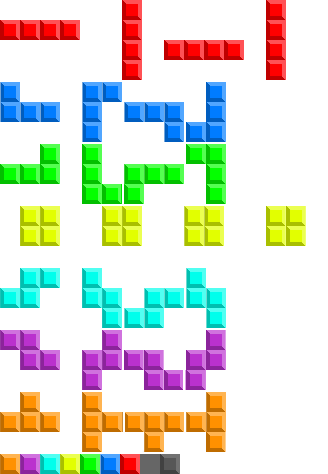
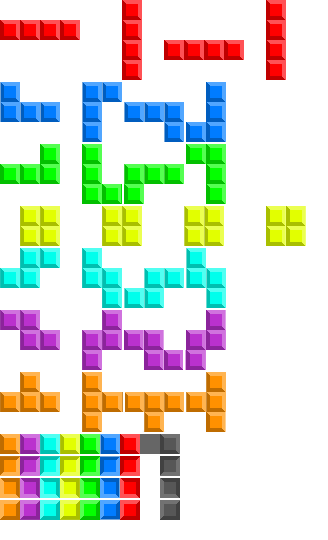
REMOVED: magic numbers, FIXED: let O shape rotate

diff --git a/js/shape.js b/js/shape.js
@@ -28,7 +28,7 @@ class Shape extends Sprite {
          */
         this.shapes = [
             {
-                name: 'I', width: 80, height: 80, color: 7, rotations: [
+                name: 'I', width: 80, height: 80, color: 6, rotations: [
                     [0, 0, 0, 0, 1, 1, 1, 1, 0, 0, 0, 0, 0, 0, 0, 0],
                     [0, 0, 1, 0, 0, 0, 1, 0, 0, 0, 1, 0, 0, 0, 1, 0],
                     [0, 0, 0, 0, 0, 0, 0, 0, 1, 1, 1, 1, 0, 0, 0, 0],
@@ -36,7 +36,7 @@ class Shape extends Sprite {
                 ]
             },
             {
-                name: 'J', width: 60, height: 60, color: 6, rotations: [
+                name: 'J', width: 60, height: 60, color: 5, rotations: [
                     [1, 0, 0, 1, 1, 1, 0, 0, 0],
                     [0, 1, 1, 0, 1, 0, 0, 1, 0],
                     [0, 0, 0, 1, 1, 1, 0, 0, 1],
@@ -44,7 +44,7 @@ class Shape extends Sprite {
                 ]
             },
             {
-                name: 'L', width: 60, height: 60, color: 5, rotations: [
+                name: 'L', width: 60, height: 60, color: 4, rotations: [
                     [0, 0, 1, 1, 1, 1, 0, 0, 0],
                     [0, 1, 0, 0, 1, 0, 0, 1, 1],
                     [0, 0, 0, 1, 1, 1, 1, 0, 0],
@@ -52,15 +52,15 @@ class Shape extends Sprite {
                 ]
             },
             {
-                name: 'O', width: 80, height: 60, color: 4, rotations: [
-                    [0, 1, 1, 0, 0, 1, 1, 0, 0, 0, 0, 0],
-                    [0, 1, 1, 0, 0, 1, 1, 0, 0, 0, 0, 0],
-                    [0, 1, 1, 0, 0, 1, 1, 0, 0, 0, 0, 0],
-                    [0, 1, 1, 0, 0, 1, 1, 0, 0, 0, 0, 0]
+                name: 'O', width: 80, height: 40, color: 3, rotations: [
+                    [0, 1, 1, 0, 0, 1, 1, 0],
+                    [0, 1, 1, 0, 0, 1, 1, 0],
+                    [0, 1, 1, 0, 0, 1, 1, 0],
+                    [0, 1, 1, 0, 0, 1, 1, 0]
                 ]
             },
             {
-                name: 'S', width: 60, height: 60, color: 3, rotations: [
+                name: 'S', width: 60, height: 60, color: 2, rotations: [
                     [0, 1, 1, 1, 1, 0, 0, 0, 0],
                     [0, 1, 0, 0, 1, 1, 0, 0, 1],
                     [0, 0, 0, 0, 1, 1, 1, 1, 0],
@@ -68,7 +68,7 @@ class Shape extends Sprite {
                 ]
             },
             {
-                name: 'Z', width: 60, height: 60, color: 2, rotations: [
+                name: 'Z', width: 60, height: 60, color: 1, rotations: [
                     [1, 1, 0, 0, 1, 1, 0, 0, 0],
                     [0, 0, 1, 0, 1, 1, 0, 1, 0],
                     [0, 0, 0, 1, 1, 0, 0, 1, 1],
@@ -76,7 +76,7 @@ class Shape extends Sprite {
                 ]
             },
             {
-                name: 'T', width: 60, height: 60, color: 1, rotations: [
+                name: 'T', width: 60, height: 60, color: 0, rotations: [
                     [0, 1, 0, 1, 1, 1, 0, 0, 0],
                     [0, 1, 0, 0, 1, 1, 0, 1, 0],
                     [0, 0, 0, 1, 1, 1, 0, 1, 0],
@@ -130,26 +130,23 @@ class Shape extends Sprite {
         this.shapeName = name;
         this.rotation = rotation;
         this.shape = this.shapes.find((shape) => shape.name === this.shapeName);
+        // we only use first animation and rotate the sprite for each rotation
         this.setAnimation(`${name}0`);
 
-        if (name === 'O') {
-            this.angle = 0;
+        if (duration) {
+            console.log(this.angle);
+            this.animate('Rotate', {
+                startValue: this.angle,
+                endValue: !rotation ? Math.PI * 2 : this.rotation * (Math.PI / 2),
+                duration: duration,
+                easing: 'easeOutQuad'
+            }).then(() => {
+                if (!rotation) {
+                    this.angle = 0;
+                }
+            });
         } else {
-            if (duration) {
-                console.log(this.angle);
-                this.animate('Rotate', {
-                    startValue: this.angle,
-                    endValue: !rotation ? Math.PI * 2 : this.rotation * (Math.PI / 2),
-                    duration: duration,
-                    easing: 'easeOutQuad'
-                }).then(() => {
-                    if (!rotation) {
-                        this.angle = 0;
-                    }
-                })
-            } else {
-                this.angle = this.rotation * (Math.PI / 2);
-            }
+            this.angle = this.rotation * (Math.PI / 2);
         }
     }
 
@@ -159,7 +156,7 @@ class Shape extends Sprite {
     setRandomShape(animate) {
         const shapeName = this.shapes[Math.random() * 7 | 0].name,
             rotation = Math.random() * 4 | 0;
-        // const shapeName = this.shapes[3].name,
+        // const shapeName = 'T',
         //     rotation = 0;
 
         console.log(`[Shape] setRandomShape() - ${this.type}, ${shapeName}`);
@@ -242,8 +239,6 @@ class Shape extends Sprite {
 
         hit = map.checkMatrixForCollision2(buffer, this.shape.width, startX, endX, startY, endY, Tile.TYPE.WALL);
 
-        // if (this.x <= -7)
-        //     debugger;
 
         // if (this.x >= 179)
         //     debugger;

diff --git a/js/grid.js b/js/grid.js
@@ -8,11 +8,14 @@ export const MAP_ROWS = 22,
   TILE_WIDTH = 20,
   TILE_HEIGHT = 20,
   // tile offsets in the spritesheet
-  MAP_TILES_OFFSET_Y = 454,
+  MAP_TILES_OFFSET_Y = 434,
   WALL_TILE_OFFSET_X = 140,
   BACK_TILE_OFFSET_X = 160,
+  NUM_COLORS = 7,
+  NUM_ROTATIONS = 4,
   // wall tile number
-  WALL_TILE = 8,
+  WALL_TILE = NUM_COLORS * NUM_ROTATIONS,
+  AIR_TILE = WALL_TILE + 1,
   // game width
   TOTAL_WIDTH = 800,
   TOTAL_HEIGHT = 600,
@@ -91,27 +94,31 @@ class Grid extends Scene {
      */
   generateTileSet() {
     // create the list of all tiles for the map
-    const tiles = [
-      {
-        offsetX: WALL_TILE_OFFSET_X,
-        offsetY: MAP_TILES_OFFSET_Y,
-        width: TILE_WIDTH,
-        height: TILE_HEIGHT
-      }
-    ];
+    const tiles = [];
 
-    // add a tile for each color
-    for (let i = 0, offset = 0; i < 7; ++i, offset += TILE_WIDTH) {
-      tiles.push({
-        offsetX: offset,
-        offsetY: MAP_TILES_OFFSET_Y,
-        width: TILE_WIDTH,
-        height: TILE_HEIGHT
-      });
+    // add a tile for each color and each rotation
+    for (let row = 0; row < 4; ++row) {
+      for (let i = 0, offset = 0; i < 7; ++i, offset += TILE_WIDTH) {
+        tiles.push({
+          offsetX: offset,
+          offsetY: MAP_TILES_OFFSET_Y + row * (TILE_HEIGHT + 2),
+          width: TILE_WIDTH,
+          height: TILE_HEIGHT
+        });
+      }
     }
 
+    // WALL
     tiles.push({
       offsetX: BACK_TILE_OFFSET_X,
+      offsetY: MAP_TILES_OFFSET_Y,
+      width: TILE_WIDTH,
+      height: TILE_HEIGHT
+    });
+
+    // Air (background)
+    tiles.push({
+      offsetX: WALL_TILE_OFFSET_X,
       offsetY: MAP_TILES_OFFSET_Y,
       width: TILE_WIDTH,
       height: TILE_HEIGHT
@@ -143,7 +150,7 @@ class Grid extends Scene {
   resetMap() {
     const map = this.map;
 
-    map.clear(0, Tile.TYPE.AIR);
+    map.clear(AIR_TILE, Tile.TYPE.AIR);
 
     // set map tiles around the playground as wall tiles
     for (let i = 0; i < map.numRows; ++i) {
@@ -304,6 +311,7 @@ class Grid extends Scene {
         ).then(() => {
           // TODO: test that first matrix element inside shape is
           // in the map, then and only then, add a new shape
+          // 
           shape.setShape(nextShape.shapeName, nextShape.rotation);
           nextShape.setRandomShape();
 
@@ -338,7 +346,7 @@ class Grid extends Scene {
     for (let j = 0; j < rows; ++j) {
       for (let i = 0; i < cols; ++i) {
         if (buffer[j * cols + i]) {
-          map.updateTile(pos.x + i, pos.y + j, data.color, Tile.TYPE.WALL);
+          map.updateTile(pos.x + i, pos.y + j, (NUM_COLORS * shape.rotation) + data.color, Tile.TYPE.WALL);
         }
       }
     }
@@ -434,10 +442,10 @@ class Grid extends Scene {
       // add wall at each side of the new lines
       for (let i = 0; i < height; ++i) {
         for (let j = 0; j < map.numCols; ++j) {
-          map.updateTile(j, i, 0, Tile.TYPE.AIR);
+          map.updateTile(j, i, AIR_TILE, Tile.TYPE.AIR);
         }
-        map.updateTile(0, i, 8, Tile.TYPE.WALL);
-        map.updateTile(map.numCols - 1, i, 8, Tile.TYPE.WALL);
+        map.updateTile(0, i, WALL_TILE, Tile.TYPE.WALL);
+        map.updateTile(map.numCols - 1, i, WALL_TILE, Tile.TYPE.WALL);
       }
 
       Dom('.athena-game').addClass('shake-vertical shake-constant');

diff --git a/js/shape_behavior.js b/js/shape_behavior.js
@@ -59,7 +59,7 @@ class ShapeBehavior extends Behavior {
             this.startY = sprite.y;
         } else {
             const diff = timestamp - this.startTime;
-            const duration = this.ground ? sprite.data.speed / 8 : sprite.data.speed;
+            const duration = this.ground ? sprite.data.speed / 6 : sprite.data.speed;
 
             if (diff > duration) {
                 // timer reached
@@ -120,8 +120,9 @@ class ShapeBehavior extends Behavior {
             } else {
                 // sprite.y = this.startY + move.y;
             }
-        } else {
+        } else if (!this.ground) {
             this.ground = true;
+            this.startTime = 0;
             console.log('ground');
         }
         // console.log('apres move', sprite.y);
